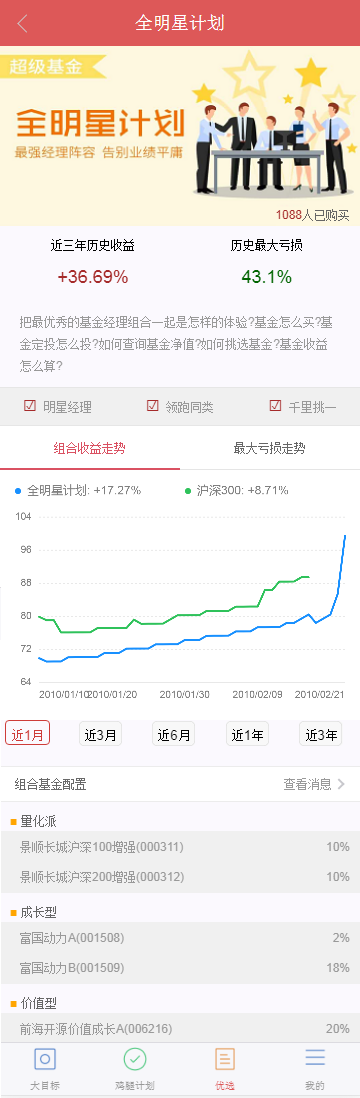
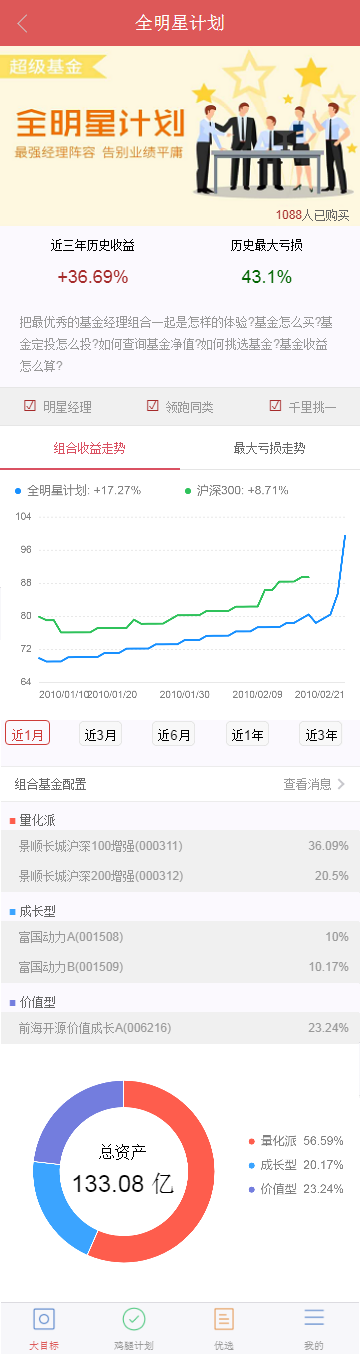
add choice details

diff --git a/src/components/wap/bestChoice/js/bestChoiceDetail.js b/src/components/wap/bestChoice/js/bestChoiceDetail.js
@@ -1,6 +1,14 @@
 
-import { Tab,TabItem,XImg,XButton,Swiper,SwiperItem,Flexbox,FlexboxItem,XDialog,Group,Cell,VChart, VLine, VAxis, VTooltip} from 'vux';
-
+import { Tab,TabItem,XImg,XButton,Swiper,SwiperItem,Flexbox,FlexboxItem,XDialog,Group,Cell,VChart, VLine, VAxis, VTooltip,VArea,VLegend, VBar, VPie, VGuide, VScale} from 'vux';
+const data = [
+	{name: "量化派", percent: 56.59, a: '1' },
+	{ name: "成长型", percent: 20.17, a: '1' },
+	{ name: "价值型", percent: 23.24, a: '1' }
+]
+const map = {}
+data.map(obj => {
+  map[obj.name] = obj.percent + '%'
+})
 export default {
 	mounted(){
 		this.loadDetail();
@@ -10,8 +18,9 @@ export default {
 	computed:{
 		/*init vchart data*/
 	},
-	data(){
-		let data={
+	data(){		
+		return {
+			map,
 			mainData:{},
 			fTypeList:[],
 			/*init vchart first or data???*/
@@ -191,6 +200,27 @@ export default {
 				}
 			],
 			index: 0,
+			htmlOptions: {
+				position: [ '50%', '45%' ],
+				html: `
+				  <div style="width: 250px;height: 40px;text-align: center;">
+					<div style="font-size: 16px">总资产</div>
+					<div style="font-size: 24px">133.08 亿</div>
+				  </div>`
+			},
+			legendOptions: {
+				position: 'right',
+				itemFormatter (val) {
+				  return val + '  ' + map[val]
+				}
+			},
+			yOptions: {
+				formatter (val) {
+					return val * 100 + '%'
+				}
+			},
+			
+			data,
 			vchartData:[
 				{"date":"2010/01/10","type":"全明星计划: +17.27%","value":69.9},
 				{"date":"2010/01/11","type":"全明星计划: +17.27%","value":69.10},
@@ -274,8 +304,7 @@ export default {
 				{"date":"2010/02/15","type":"沪深300: +8.71%","value":89.45},
 				{"date":"2010/02/16","type":"沪深300: +8.71%","value":89.46}
 			]			
-		}
-		return data;
+		};
 	},
 	methods:{		
 		loadDetail(){
@@ -326,6 +355,6 @@ export default {
 		/*.........to do .........*/
 	},
 	components:{
-		Tab, TabItem,XImg,XButton,Swiper, SwiperItem,Flexbox, FlexboxItem,XDialog,Group,Cell,VChart, VLine, VAxis, VTooltip
+		Tab, TabItem,XImg,XButton,Swiper, SwiperItem,Flexbox, FlexboxItem,XDialog,Group,Cell,VChart, VLine, VAxis, VTooltip,VArea,VLegend, VBar, VPie, VGuide, VScale
 	}
 }

diff --git a/src/components/wap/bestChoice/bestChoiceDetail.vue b/src/components/wap/bestChoice/bestChoiceDetail.vue
@@ -76,7 +76,7 @@
     </div>
     
     <div v-for="(item,index) in fTypeList" :key="index">
-        <div class="funds"><span style="color:orange">■</span> {{item.name}}</div>
+        <div class="funds"><span :style="'color:'+item.color">■</span> {{item.name}}</div>
         <div class="fundsDetail">
         <flexbox orient="vertical">
           <flexbox-item v-for="(it,idx) in item.fundsList" :key="idx" class="fundsDetails">
@@ -85,6 +85,17 @@
           </flexbox-item>
         </flexbox>
         </div>
+    </div>
+    <div>
+      <v-chart
+        :data="data"
+        :padding="[20, 'auto']">
+        <v-tooltip disabled />
+        <v-scale y :options="yOptions" />
+        <v-pie :radius="0.85" :inner-radius="0.7" series-field="name" :colors="['#FE5D4D','#3BA4FF','#737DDE']" />
+        <v-legend :options="legendOptions" />
+        <v-guide type="html" :options="htmlOptions" />
+      </v-chart>
     </div>
   </div>
 </template>
